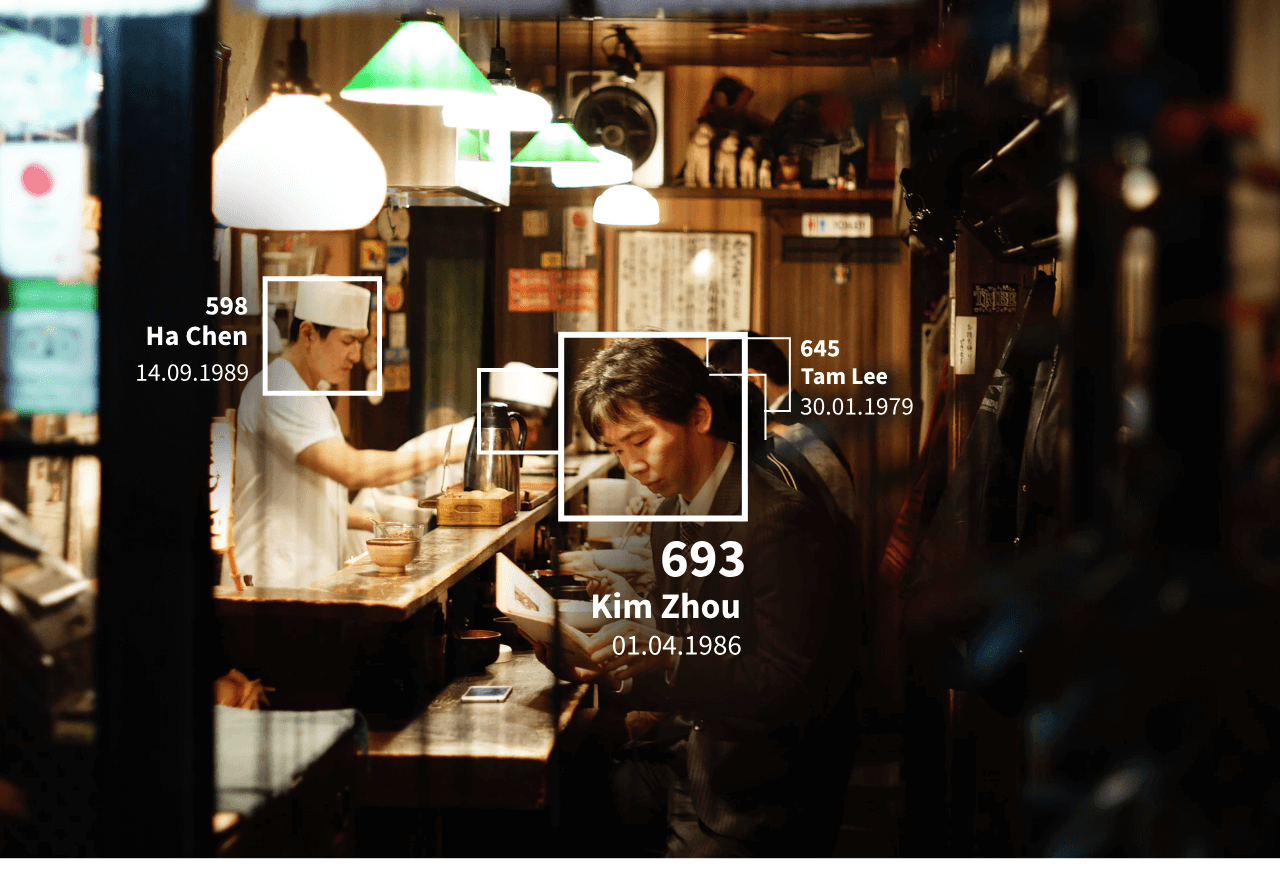
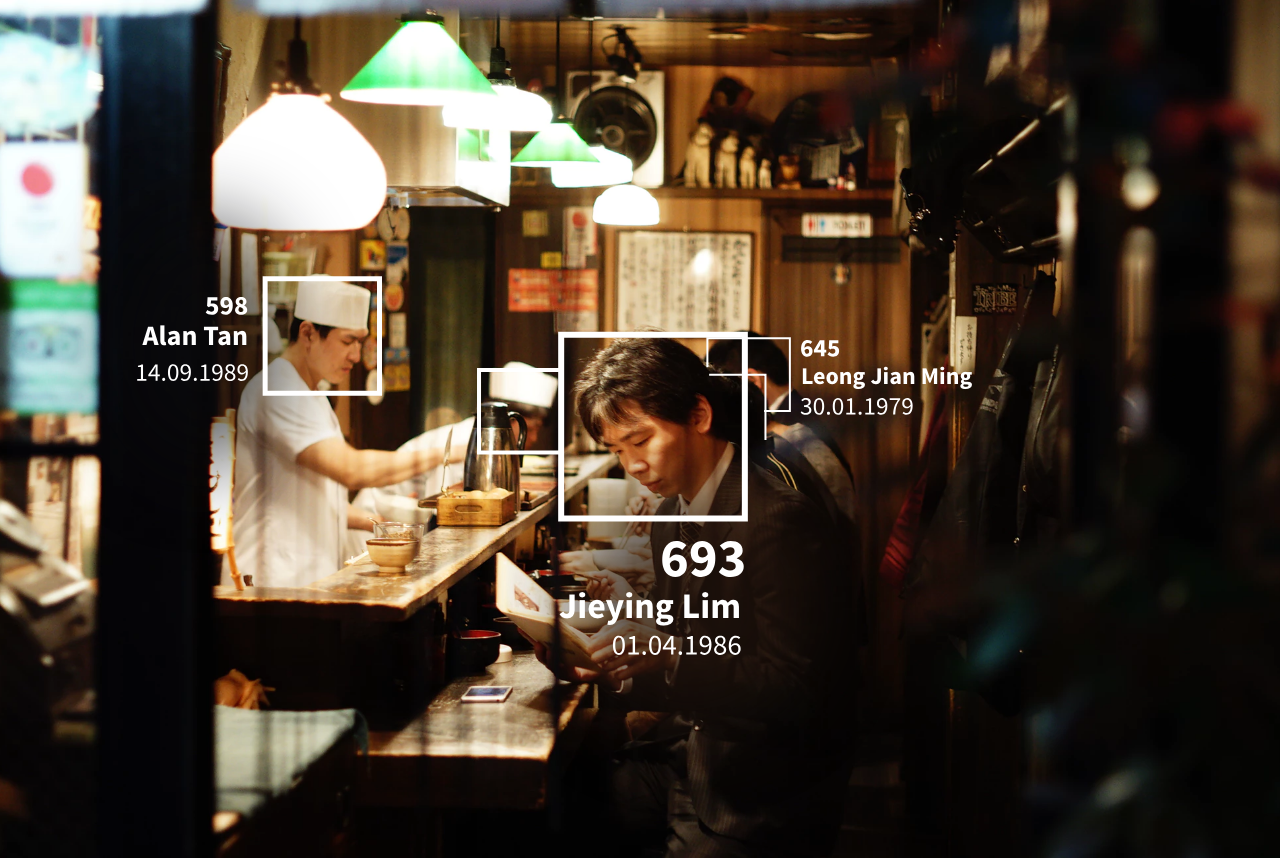
Introbild ausgetauscht + Zeile im Impressum ersetzt + Overall als Default

diff --git a/src/components/Approval.vue b/src/components/Approval.vue
@@ -18,23 +18,23 @@
             <li
               v-on:click="changeToOverall"
               id="changeToOverall"
-              class="approval__controls__element__group"
-            >
-              <img class="approval__controls__element__icons" src="../assets/filter-overall.svg">
-              <span class="approval__controls__element__label">Overall</span>
-            </li>
-            <li
-              v-on:click="changeToAge"
-              id="changeToAge"
               class="approval__controls__element__group approval__controls__element__group--default"
             >
               <img
                 class="approval__controls__element__icons approval__controls__element__icons--default"
-                src="../assets/filter-age.svg"
+                src="../assets/filter-overall.svg"
               >
               <span
                 class="approval__controls__element__label approval__controls__element__label--default"
-              >Age</span>
+              >Overall</span>
+            </li>
+            <li
+              v-on:click="changeToAge"
+              id="changeToAge"
+              class="approval__controls__element__group"
+            >
+              <img class="approval__controls__element__icons" src="../assets/filter-age.svg">
+              <span class="approval__controls__element__label">Age</span>
             </li>
             <li
               v-on:click="changeToGender"
@@ -79,7 +79,7 @@
           </ul>
         </div>
       </div>
-      <h3 class="approval__controls__heading" id="approvalHeading">Age</h3>
+      <h3 class="approval__controls__heading" id="approvalHeading">Overall</h3>
       <div class="row justify-content-end">
         <div class="col-11 approval__chart" ref="chartdiv"></div>
       </div>
@@ -102,7 +102,6 @@ function changeToCategory(id, categoryName) {
   document.getElementById(id).style.opacity = 1;
   document.getElementById("approvalHeading").innerText = categoryName;
 }
-
 
 /* Imports */
 import * as am4core from "@amcharts/amcharts4/core";
@@ -322,28 +321,12 @@ export default {
 
     chart.data = [
       {
-        category: "14-30 years",
-        stronglyDisapprove: 6.8,
-        somewhatDisapprove: 7.2,
-        neutral: 19.9,
-        somewhatApprove: 33.6,
-        stronglyApprove: 45.1
-      },
-      {
-        category: "31-50 years",
-        stronglyDisapprove: 0.5,
-        somewhatDisapprove: 0.5,
-        neutral: 17.0,
-        somewhatApprove: 28.5,
-        stronglyApprove: 53.4
-      },
-      {
-        category: "51-65 years",
-        stronglyDisapprove: 0,
-        somewhatDisapprove: 4.3,
-        neutral: 18.4,
-        somewhatApprove: 21.0,
-        stronglyApprove: 56.4
+        category: "Overall",
+        stronglyDisapprove: 0.6,
+        somewhatDisapprove: 0.8,
+        neutral: 18.7,
+        somewhatApprove: 31.1,
+        stronglyApprove: 48.9
       }
     ];
 

diff --git a/src/components/Imprint.vue b/src/components/Imprint.vue
@@ -27,6 +27,9 @@
           <p
             class="section__paragraph text-left"
           >Visualized by the students Benedikt Asal, Philipp Danne, Selina Groß and David Wostracky</p>
+          <p class="section__paragraph text-left">DHBW Campus Mosbach, Department Online Media</p>
+
+          <p class="section__paragraph text-left">Date of submission: 28.01.2019</p>
           <p class="section__paragraph text-left">
             Based on the study
             <a
